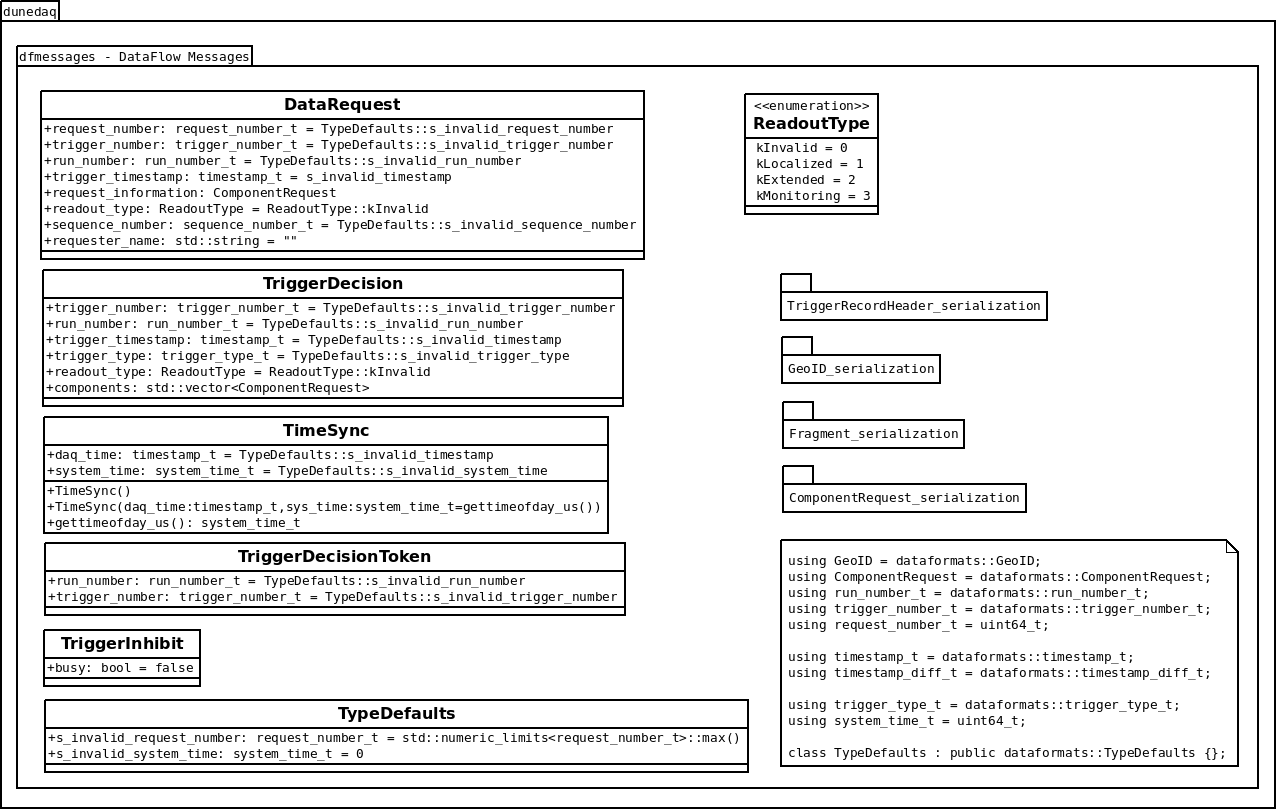
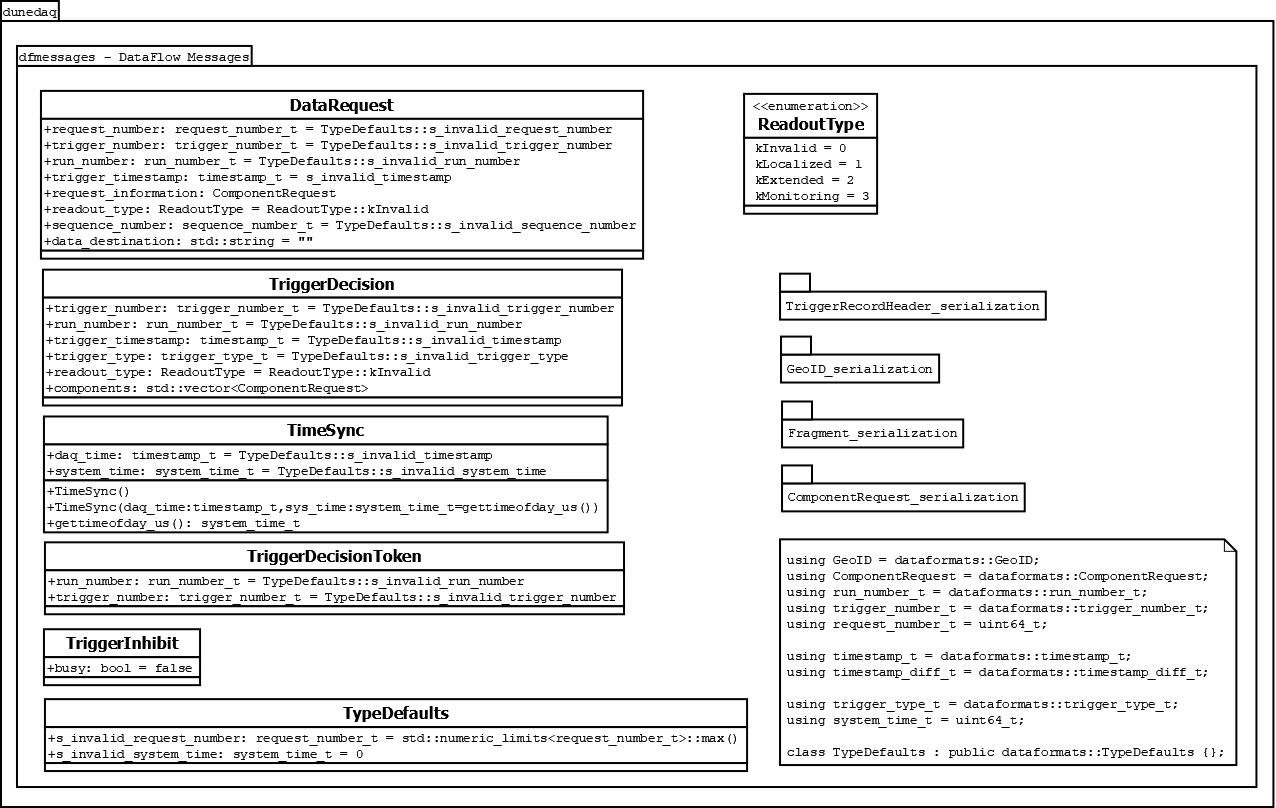
Change requester_name to data_destination. Update unit test and documentation

diff --git a/include/dfmessages/DataRequest.hpp b/include/dfmessages/DataRequest.hpp
@@ -36,7 +36,7 @@ struct DataRequest
   ReadoutType readout_type{ ReadoutType::kInvalid };                            ///< Mode of the request
   sequence_number_t sequence_number{ TypeDefaults::s_invalid_sequence_number }; ///< Sequence Number of the request
 
-  std::string requester_name ; 
+  std::string data_destination;
 
   DUNE_DAQ_SERIALIZE(DataRequest,
                      request_number,
@@ -45,8 +45,8 @@ struct DataRequest
                      trigger_timestamp,
                      request_information,
                      readout_type,
-                     sequence_number, 
-		     requester_name);
+                     sequence_number,
+                     data_destination);
 };
 
 } // namespace dfmessages
